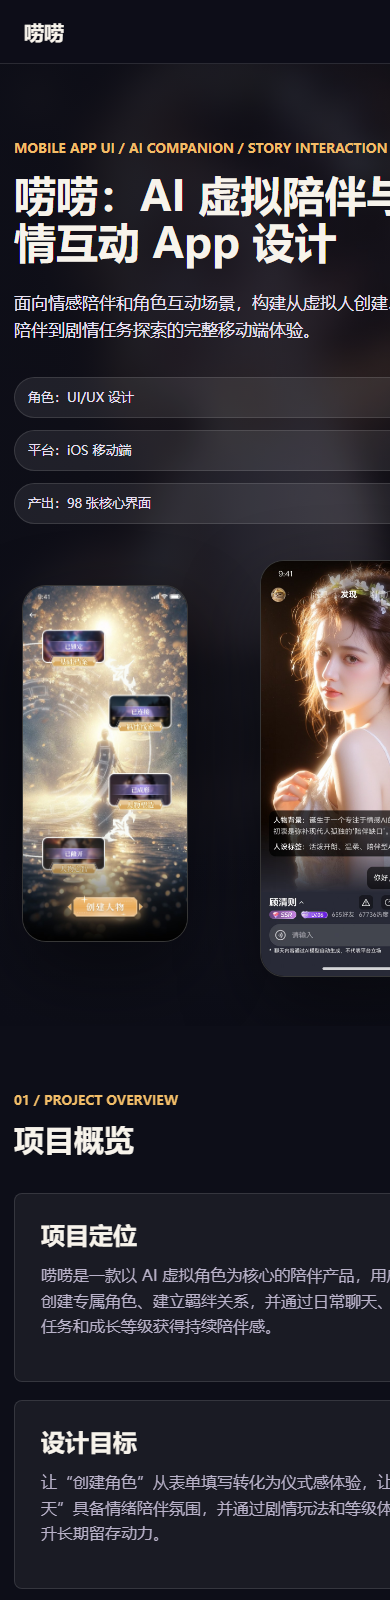
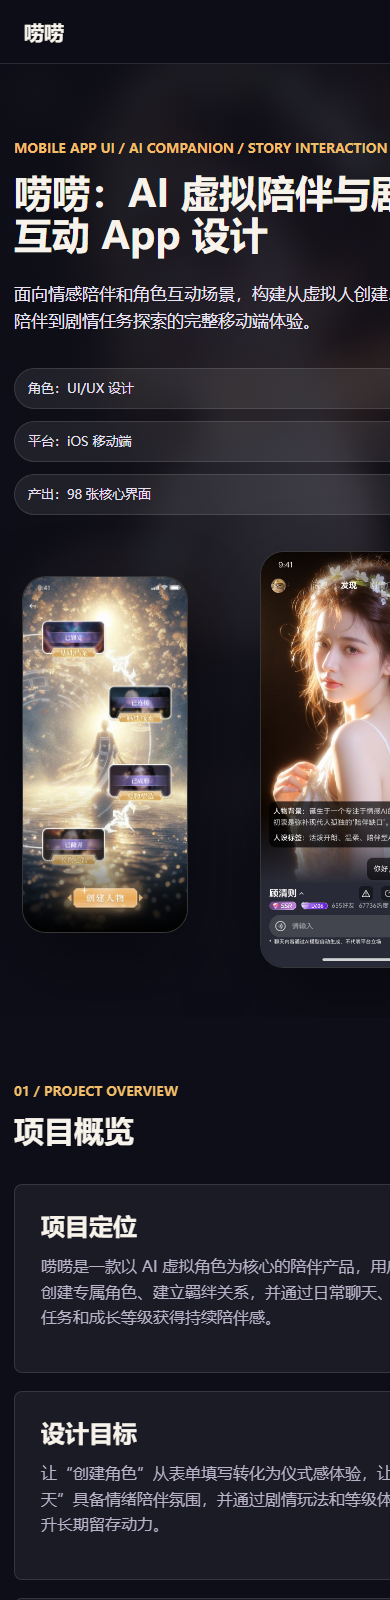
Auto sync 2026-05-12 11:33:49

diff --git a/design-requests/laolao-portfolio/styles.css b/design-requests/laolao-portfolio/styles.css
@@ -135,6 +135,10 @@ h1 {
   word-break: break-word;
 }
 
+h1 span {
+  display: block;
+}
+
 h2 {
   margin-bottom: 18px;
   font-size: clamp(30px, 4vw, 48px);
@@ -649,8 +653,12 @@ h3 {
   }
 
   h1 {
-    font-size: clamp(34px, 10.6vw, 42px);
+    font-size: clamp(31px, 9.8vw, 38px);
     line-height: 1.12;
+  }
+
+  h1 span {
+    display: inline;
   }
 
   .hero-lead {
